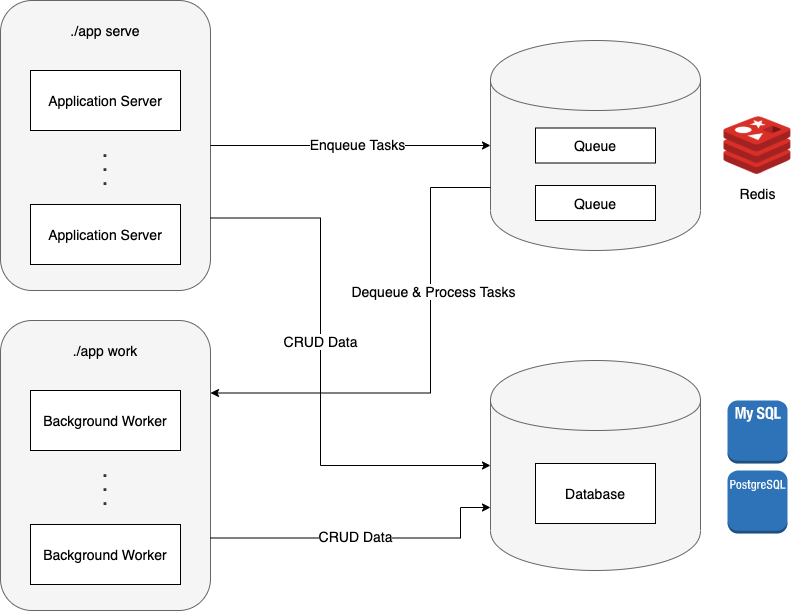
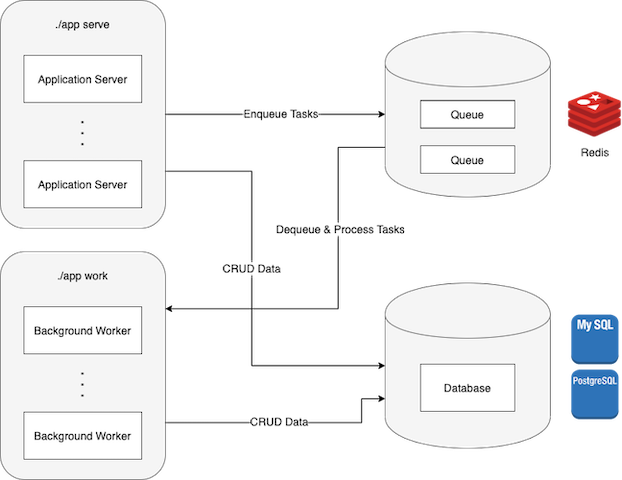
re-align image

diff --git a/README.md b/README.md
@@ -13,7 +13,9 @@ An opinionated productive web framework that helps scaling business easier.
 
 Monolith first, only microservices with [GRPC](https://grpc.io/) later when your team is ready.
 
-![architecture](./.github/assets/architecture.png)
+<p align="center">
+  <img height="420px" alt="architecture" src="./.github/assets/architecture.png" />
+</p>
 
 ## Features
 
